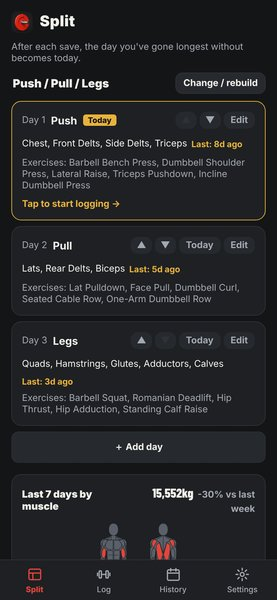
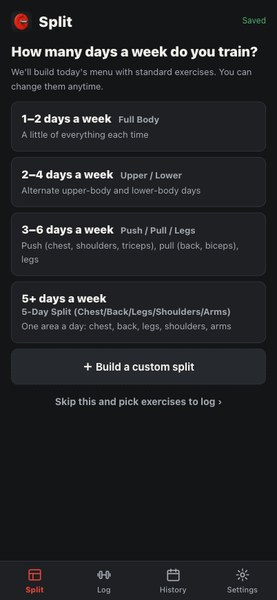
使い方ガイド2枚目の画像を「週に何回?」の画面に差し替える

diff --git a/docs/Watchアプリ.md b/docs/Watchアプリ.md
@@ -94,6 +94,8 @@ Watch でセットを入力するためのアプリ(v120〜)。
    「REST notif … shown late=」が通知で鳴った遅れ、「WO …」「SYNC …」がワークアウトの判断の流れ
 
 ### 次の版に入るもの(main にあり、まだどのビルドにも入っていない)
+- **2026-11-07 使い方ガイド2枚目(「分割を決める」)の画像を、新しい「週に何回トレーニングしますか?」の画面に差し替えた**(`guide/ja-2.jpg`・`en-2.jpg`、Web 版の 402×871 を 277×600 に縮小)。
+  北村さん「お願い」。1.4.6 (49) は提出済みなので次の版で出る。App Store のスクリーンショット(v9)9枚には部位の選び方の画面が写っていないので撮り直さなかった
 - **2026-11-07 初回の「週に何回?」と部位のまとまり**(**1.4.6 (49) に入った**)(北村さん「最初の部位の選び方に難がある」→ レビューの上位4つを承認、main 取り込みも承認。1.4.5 (48) の審査後のビルドに入れる)。
   初回の分割タブは頻度で型を選ぶと定番の種目まで入って記録タブへ。部位チップは胸・背中・肩・腕・脚・お尻・お腹・全身の8つ。中身は `docs/画面改善.md` の末尾と `docs/UIレビュー_2026-11.md`。
   What's New の候補。**ガイド2枚目の画像が旧い分割タブのまま**、App Store のスクリーンショットに部位チップが写っていれば撮り直し
